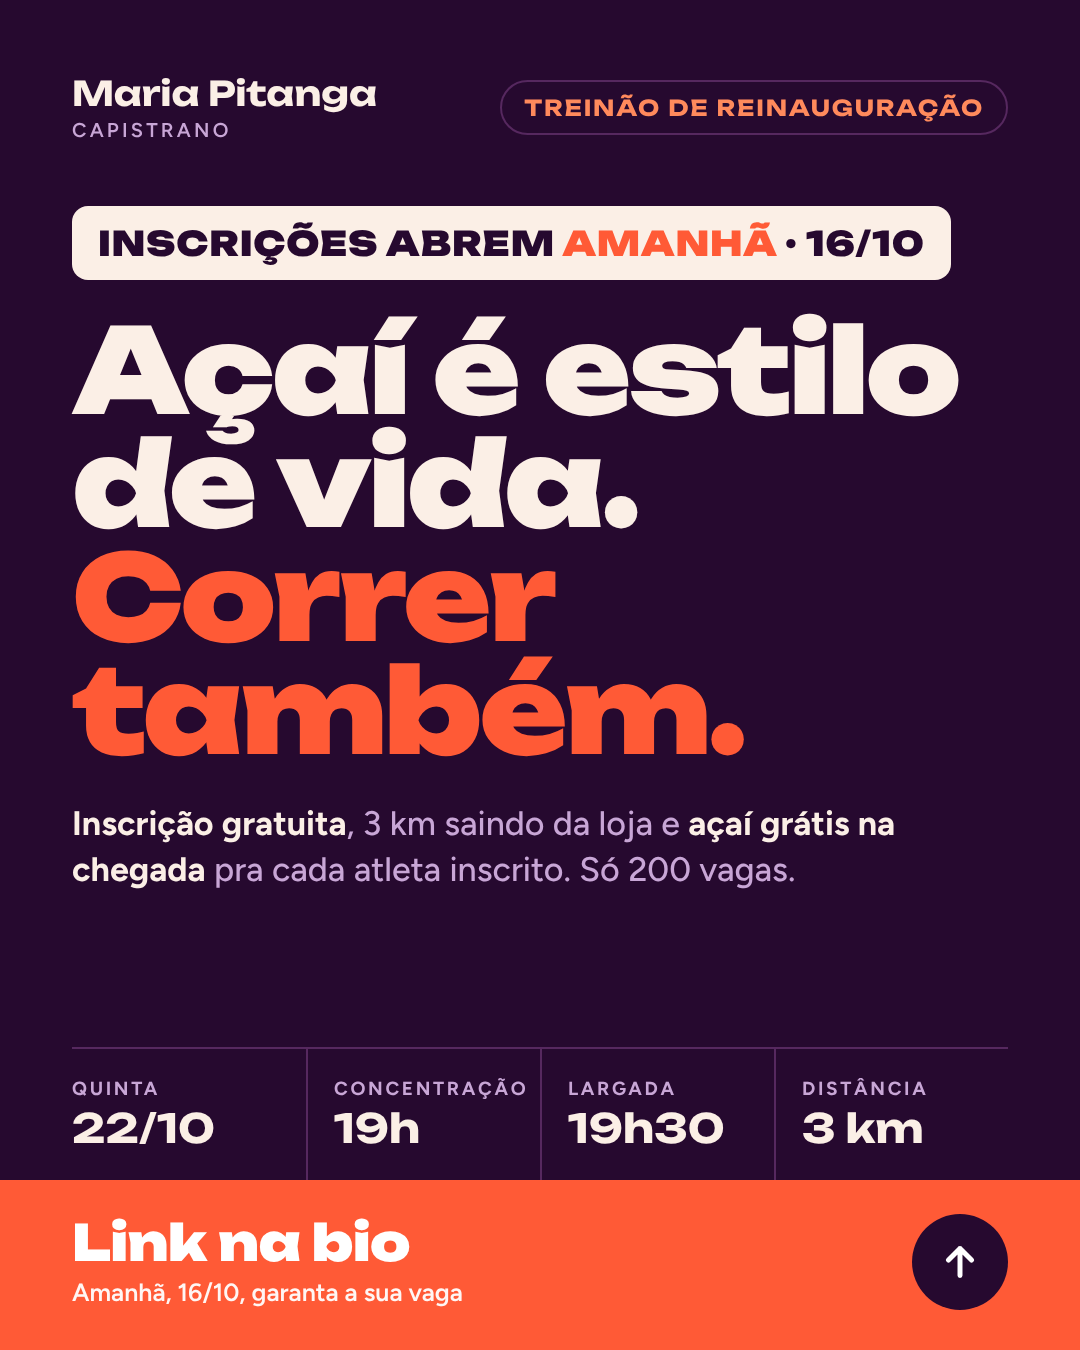
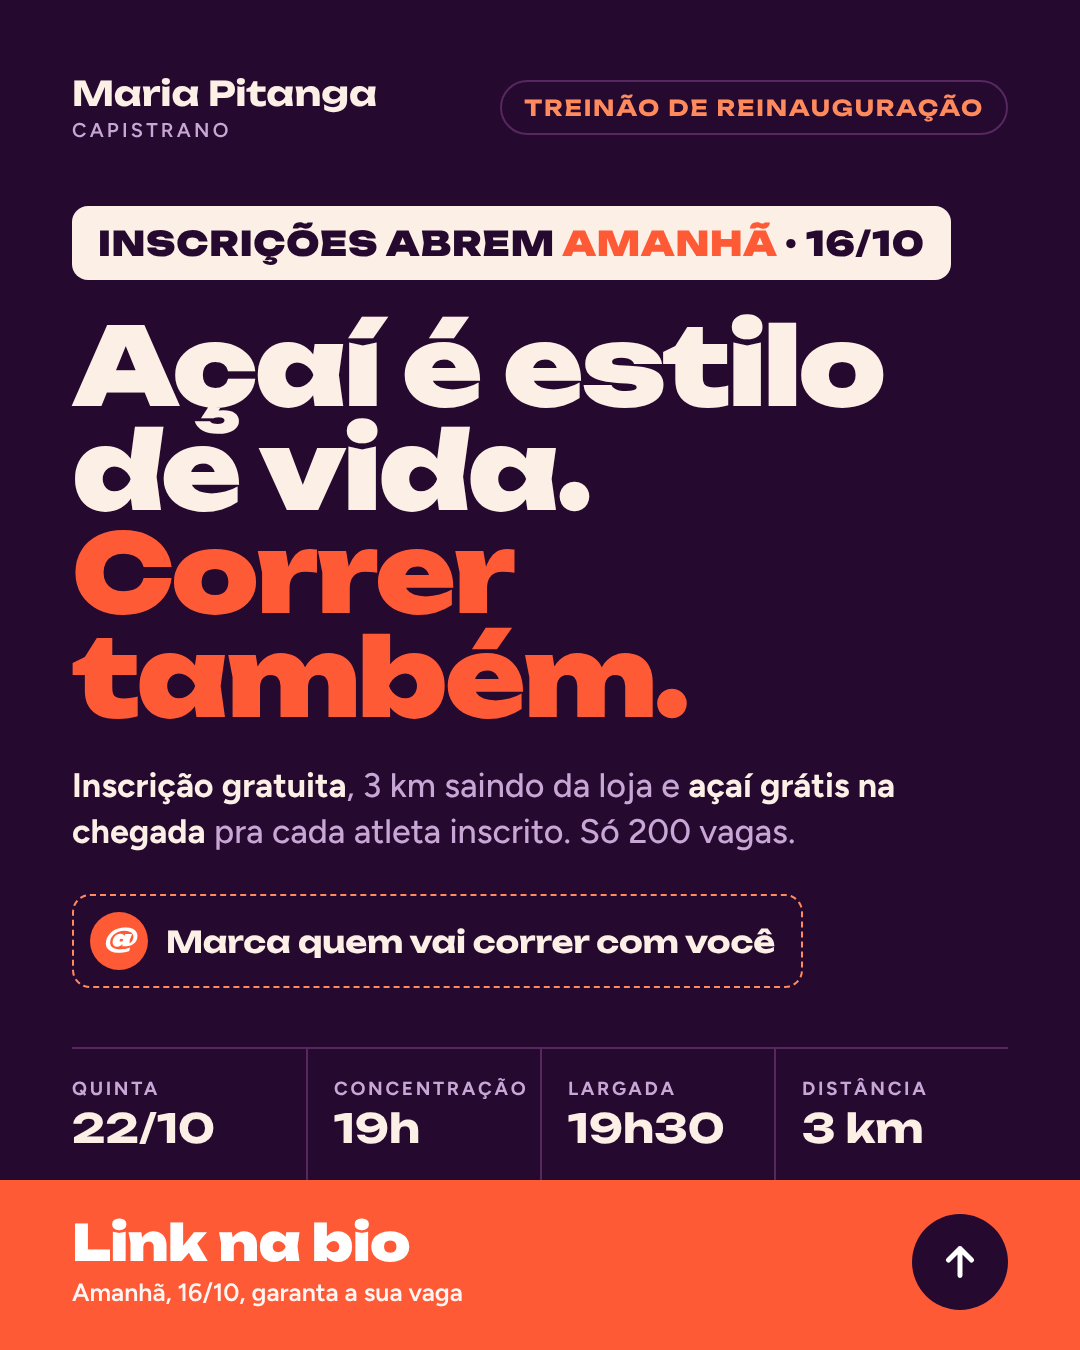
Post: convite para marcar quem vai correr
Claude-Session: https://claude.ai/code/session_01TocaGZsmS1Pu3dG53TNHn9

Changed region(s): [[0.0611, 0.2178, 0.8861, 0.7156]]

diff --git a/divulgacao/post-feed.html b/divulgacao/post-feed.html
@@ -16,10 +16,13 @@ body{width:1080px;height:1350px;background:var(--acai);color:var(--creme);font-f
 .selo{font-family:var(--display);font-weight:700;font-size:22px;letter-spacing:.08em;text-transform:uppercase;border:2px solid var(--linha);color:var(--pitanga-2);border-radius:999px;padding:12px 22px}
 .aviso{margin-top:64px;align-self:flex-start;background:var(--creme);color:var(--acai);font-family:var(--display);font-weight:900;font-size:34px;letter-spacing:.02em;text-transform:uppercase;border-radius:16px;padding:16px 26px}
 .aviso b{color:var(--pitanga)}
-h1{margin:34px 0 0;font-family:var(--display);font-weight:900;font-size:118px;line-height:.96;letter-spacing:-.025em}
+h1{margin:34px 0 0;font-family:var(--display);font-weight:900;font-size:108px;line-height:.96;letter-spacing:-.025em}
 h1 span{display:block;color:var(--pitanga)}
 .lead{margin:34px 0 0;font-size:34px;line-height:1.35;color:var(--lilas);max-width:880px}
 .lead strong{color:var(--creme)}
+.marca-amigo{margin-top:40px;margin-bottom:40px;align-self:flex-start;display:flex;align-items:center;gap:18px;border:2px dashed var(--pitanga-2);border-radius:18px;padding:16px 26px 16px 16px}
+.marca-amigo .arroba{width:58px;height:58px;border-radius:50%;background:var(--pitanga);color:#fff;display:grid;place-items:center;font-family:var(--display);font-weight:900;font-size:30px;line-height:1;padding-bottom:4px}
+.marca-amigo span{font-family:var(--display);font-weight:700;font-size:30px;letter-spacing:-.005em}
 .ficha{margin-top:auto;display:grid;grid-template-columns:repeat(4,1fr);border-top:2px solid var(--linha)}
 .ficha div{padding:28px 0 30px 26px;display:flex;flex-direction:column;gap:6px}
 .ficha div:first-child{padding-left:0}
@@ -44,6 +47,8 @@ h1 span{display:block;color:var(--pitanga)}
   <h1>Açaí é estilo de vida. <span>Correr também.</span></h1>
 
   <p class="lead"><strong>Inscrição gratuita</strong>, 3 km saindo da loja e <strong>açaí grátis na chegada</strong> pra cada atleta inscrito. Só 200 vagas.</p>
+
+  <div class="marca-amigo"><i class="arroba" aria-hidden="true">@</i><span>Marca quem vai correr com você</span></div>
 
   <div class="ficha">
     <div><small>Quinta</small><strong>22/10</strong></div>
